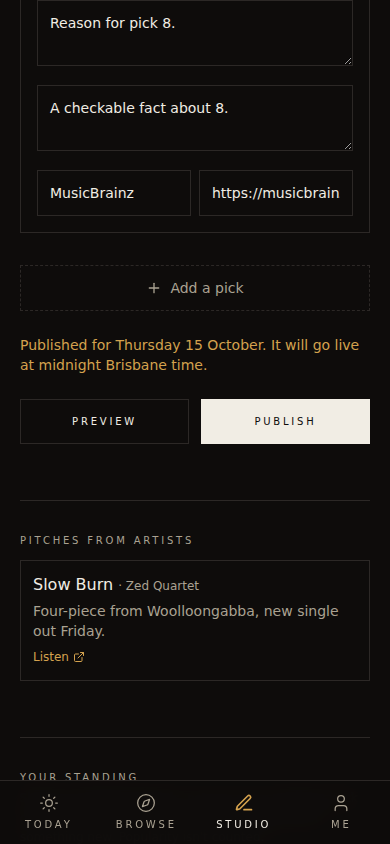
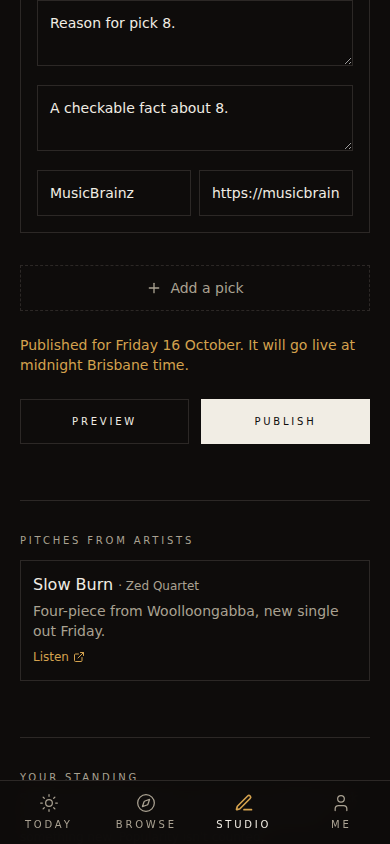
Two-evidence check for new artists; allow 12 picks in DB; governance and evidence

Changed region(s): [[0.0615, 0.4005, 0.9231, 0.4621]]

diff --git a/prototype/src/pages/Studio.jsx b/prototype/src/pages/Studio.jsx
@@ -6,7 +6,7 @@ import { listEditions, saveEdition, listPitches, addGigTip, getCuratorStats, sav
 import { CITIES } from "@/lib/cities";
 import { tierFor, discoveryRate, TIERS, MIN_RESPONSES_TO_SHOW } from "@/lib/standing";
 import { cityToday, addDays, formatLong, formatShort } from "@/lib/time";
-import { validateEdition, emptyItem, MAX_ITEMS, MAX_DAYS_AHEAD } from "@/lib/validate";
+import { validateEdition, emptyItem, emptyEvidence, ARTIST_PAGE_TYPES, MAX_ITEMS, MAX_DAYS_AHEAD } from "@/lib/validate";
 import { useFolio } from "@/lib/folio-store";
 import EditionView from "@/components/folio/EditionView";
 
@@ -37,6 +37,7 @@ export default function Studio() {
   const dateOptions = Array.from({ length: MAX_DAYS_AHEAD + 1 }, (_, i) => addDays(today, i));
 
   const setItem = (i, patch) => setEd((x) => ({ ...x, items: x.items.map((it, n) => (n === i ? { ...it, ...patch } : it)) }));
+  const setEv = (i, patch) => setEd((x) => ({ ...x, items: x.items.map((it, n) => (n === i ? { ...it, evidence: { ...emptyEvidence(), ...it.evidence, ...patch } } : it)) }));
   const setLiner = (i, patch) => setEd((x) => ({ ...x, items: x.items.map((it, n) => (n === i ? { ...it, linerNote: { ...it.linerNote, ...patch } } : it)) }));
 
   const publish = async () => {
@@ -105,9 +106,26 @@ export default function Studio() {
                   <option value="other">Outside {pubCity.country}</option>
                 </select>
                 {it.stage === "emerging" && (
-                  <label className="col-span-2 flex items-center gap-2 text-xs text-folio-cream-dim">
-                    <input type="checkbox" checked={!!it.knowsArtist} onChange={(e) => setItem(i, { knowsArtist: e.target.checked })} /> I know this artist personally (shown to readers)
-                  </label>
+                  <div className="col-span-2 space-y-2 border border-folio-saffron/40 bg-folio-saffron/5 p-3" data-testid={`evidence-${i}`}>
+                    <p className="folio-eyebrow text-folio-saffron">Two sources for a new artist</p>
+                    <div className="grid grid-cols-3 gap-2">
+                      <select value={(it.evidence || {}).artistType || "soundcloud"} onChange={(e) => setEv(i, { artistType: e.target.value })} aria-label={`Pick ${i + 1} artist page type`} className={field + " bg-folio-ink"}>
+                        {ARTIST_PAGE_TYPES.map((t) => <option key={t.id} value={t.id}>{t.label}</option>)}
+                      </select>
+                      <input value={(it.evidence || {}).artistUrl || ""} onChange={(e) => setEv(i, { artistUrl: e.target.value })} placeholder="1. Artist's own page link" aria-label={`Pick ${i + 1} artist page link`} className={field + " col-span-2"} />
+                    </div>
+                    <div className="grid grid-cols-3 gap-2">
+                      <input value={(it.evidence || {}).thirdLabel || ""} onChange={(e) => setEv(i, { thirdLabel: e.target.value })} placeholder="2. Independent source name" aria-label={`Pick ${i + 1} independent source name`} className={field} />
+                      <input value={(it.evidence || {}).thirdUrl || ""} onChange={(e) => setEv(i, { thirdUrl: e.target.value })} placeholder="Radio, venue, press or QMusic link" aria-label={`Pick ${i + 1} independent source link`} className={field + " col-span-2"} />
+                    </div>
+                    <input value={(it.evidence || {}).localNote || ""} onChange={(e) => setEv(i, { localNote: e.target.value })} maxLength={160} placeholder={`How do you know they're based in ${pubCity.name}?`} aria-label={`Pick ${i + 1} local note`} className={field} />
+                    <label className="flex items-start gap-2 text-xs text-folio-cream-dim">
+                      <input type="checkbox" className="mt-0.5" checked={!!(it.evidence || {}).attested} onChange={(e) => setEv(i, { attested: e.target.checked })} aria-label={`Pick ${i + 1} attestation`} /> I confirm this is human-made, local and new. I am accountable for this pick.
+                    </label>
+                    <label className="flex items-center gap-2 text-xs text-folio-cream-dim">
+                      <input type="checkbox" checked={!!it.knowsArtist} onChange={(e) => setItem(i, { knowsArtist: e.target.checked })} /> I know this artist personally (shown to readers)
+                    </label>
+                  </div>
                 )}
               </div>
             )}

diff --git a/prototype/src/lib/validate.js b/prototype/src/lib/validate.js
@@ -4,10 +4,33 @@ export const MIN_ITEMS = 8;
 export const MAX_ITEMS = 12;
 export const MAX_DAYS_AHEAD = 14;
 
+export const emptyEvidence = () => ({
+  artistType: "soundcloud", artistUrl: "",          // artist-owned page (their own profile)
+  thirdLabel: "", thirdUrl: "",                    // independent source (radio, venue, press, QMusic...)
+  localNote: "",                                   // how the curator knows they are local
+  attested: false,                                 // curator signs: human-made, local and new
+});
+
+export const ARTIST_PAGE_TYPES = [
+  { id: "soundcloud", label: "SoundCloud", hosts: ["soundcloud.com", "on.soundcloud.com"] },
+  { id: "bandcamp", label: "Bandcamp", hosts: ["bandcamp.com"] },
+  { id: "other", label: "Other artist-owned page", hosts: null },
+];
+
+const hostOf = (s) => { try { return new URL(s).hostname.replace(/^www\./, "").toLowerCase(); } catch { return ""; } };
+/** true when the URL is on the type's domain (or a subdomain, e.g. name.bandcamp.com). "other" accepts any host. */
+export function artistUrlMatchesType(type, url) {
+  const t = ARTIST_PAGE_TYPES.find((x) => x.id === type);
+  if (!t || !t.hosts) return !!hostOf(url);
+  const h = hostOf(url);
+  return t.hosts.some((d) => h === d || h.endsWith("." + d));
+}
+
 export const emptyItem = () => ({
   id: "i-" + Math.random().toString(36).slice(2, 9),
   kind: "track", title: "", artist: "", year: "", why: "",
   stage: "established", origin: "local", knowsArtist: false,
+  evidence: emptyEvidence(),
   linerNote: { text: "", sourceLabel: "", sourceUrl: "" },
 });
 
@@ -67,6 +90,16 @@ export function validateEdition(ed, { today, takenDates = [] }) {
     if (it.year && !/^\d{4}$/.test(String(it.year))) errs.push(`${p}: year should be four digits.`);
     if (isMusic(it) && it.origin === "other") errs.push(`${p}: Folio is scoped to Australian artists for now. Mark where they are from, or pick someone from here.`);
     if (it.stage === "emerging" && !isMusic(it)) errs.push(`${p}: only a track, album or artist can be marked new and upcoming.`);
+    if (it.stage === "emerging" && isMusic(it)) {
+      const ev = it.evidence || {};
+      if (!isHttpUrl(ev.artistUrl || "")) errs.push(`${p}: add the artist's own page (SoundCloud, Bandcamp or other) as a link.`);
+      else if (!artistUrlMatchesType(ev.artistType, ev.artistUrl)) errs.push(`${p}: that link is not on ${ARTIST_PAGE_TYPES.find((x) => x.id === ev.artistType)?.label || "the chosen site"}. Change the page type or the link.`);
+      if (!isHttpUrl(ev.thirdUrl || "") || !(ev.thirdLabel || "").trim()) errs.push(`${p}: add an independent source (radio, venue, press or QMusic) with a name and link.`);
+      else if (hostOf(ev.thirdUrl) === hostOf(ev.artistUrl)) errs.push(`${p}: the independent source must be on a different site from the artist's own page.`);
+      if ((ev.localNote || "").trim().length < 20) errs.push(`${p}: say how you know the artist is local (profile location, a gig, a venue).`);
+      if (it.origin !== "local") errs.push(`${p}: a new and upcoming pick must be based in the city.`);
+      if (!ev.attested) errs.push(`${p}: tick the box to confirm this is human-made, local and new.`);
+    }
     const ln = it.linerNote || {};
     if ((ln.text || "").trim().length < 20) errs.push(`${p}: the liner note needs a real fact.`);
     if (!isHttpUrl(ln.sourceUrl || "")) errs.push(`${p}: the liner note needs a source link (http or https).`);

diff --git a/prototype/src/components/folio/ItemCard.jsx b/prototype/src/components/folio/ItemCard.jsx
@@ -35,6 +35,13 @@ export default function ItemCard({ item, index, editionDate }) {
               {item.stage === "emerging" && item.knowsArtist && <span className="folio-eyebrow px-1.5 py-0.5 border border-border text-folio-cream-dim">Curator knows them</span>}
             </p>
           )}
+          {item.stage === "emerging" && item.evidence?.localNote && (
+            <p className="mt-2 text-xs text-folio-cream-dim" data-testid="item-evidence">
+              <span className="folio-eyebrow text-folio-saffron mr-1.5">Local</span>{item.evidence.localNote}{" "}
+              {item.evidence.artistUrl && <a href={item.evidence.artistUrl} target="_blank" rel="noopener noreferrer" className="underline underline-offset-2 hover:text-folio-cream">Artist's page</a>}
+              {item.evidence.thirdUrl && <> · <a href={item.evidence.thirdUrl} target="_blank" rel="noopener noreferrer" className="underline underline-offset-2 hover:text-folio-cream">{item.evidence.thirdLabel || "Second source"}</a></>}
+            </p>
+          )}
         </div>
         <button
           onClick={() => toggleSaved({ id: item.id, title: item.title, artist: item.artist, editionDate })}

diff --git a/submission/07_Engineering/e2e/flows.py b/submission/07_Engineering/e2e/flows.py
@@ -82,6 +82,15 @@ with sync_playwright() as pw:
         p.fill(f'[aria-label="Pick {i} source name"]',"MusicBrainz"); p.fill(f'[aria-label="Pick {i} source link"]',"https://musicbrainz.org/")
     for i in (1,2,3):
         p.select_option(f'[aria-label="Pick {i} stage"]',"emerging")
+    p.get_by_test_id("publish").click(); p.wait_for_timeout(400)
+    check(F,"New artists without two sources and attestation are blocked", "own page" in p.get_by_test_id("studio-errors").inner_text() and "human-made" in p.get_by_test_id("studio-errors").inner_text())
+    p.select_option('[aria-label="Pick 1 artist page type"]',"bandcamp"); p.fill('[aria-label="Pick 1 artist page link"]',"https://soundcloud.com/x"); p.get_by_test_id("publish").click(); p.wait_for_timeout(300)
+    check(F,"Artist page link must match the chosen site", "not on Bandcamp" in p.get_by_test_id("studio-errors").inner_text())
+    for i in (1,2,3):
+        p.select_option(f'[aria-label="Pick {i} artist page type"]',"soundcloud"); p.fill(f'[aria-label="Pick {i} artist page link"]',f"https://soundcloud.com/artist{i}")
+        p.fill(f'[aria-label="Pick {i} independent source name"]',"4ZZZ"); p.fill(f'[aria-label="Pick {i} independent source link"]',f"https://4zzzfm.org.au/artist{i}")
+        p.fill(f'[aria-label="Pick {i} local note"]',"Profile says Brisbane; played The Zoo in 2026."); p.check(f'[aria-label="Pick {i} attestation"]')
+    p.get_by_test_id("evidence-0").scroll_into_view_if_needed(); shot(p,"F4-3b-two-sources")
     p.get_by_test_id("publish").click(); p.wait_for_timeout(600); shot(p,"F4-4-published")
     check(F,"Valid 8-pick Edition with 3 new artists publishes", "Published" in (p.get_by_test_id("studio-status").inner_text() if p.get_by_test_id("studio-status").count() else ""), p.inner_text("body")[-400:])
     signout(p)

diff --git a/docs/CURATOR_GOVERNANCE.md b/docs/CURATOR_GOVERNANCE.md
@@ -26,6 +26,18 @@ Folio's job is both to help newcomers get to know the established names and to s
 - The mix is a hypothesis about what a newcomer needs. Test it (Evaluation Kit Q8) and change it if the evidence says so.
 - Founding (seed) Editions are history lessons by the team and are exempt.
 
+## Verifying new and local artists: two sources and a signature (implemented 15 Oct, `validate.js`, Studio)
+A pick marked "new and upcoming" must carry, before an Edition can publish:
+1. **The artist's own page** (SoundCloud, Bandcamp or another artist-owned page). The Studio checks that the link is on the site the curator chose; look-alike domains fail.
+2. **An independent source** (radio, venue, press or QMusic) with a name and link, on a different site from the artist's page.
+3. **A local note**: how the curator knows the artist is based in the city (profile location, a gig, a venue).
+4. **The curator's attestation**: "I confirm this is human-made, local and new. I am accountable for this pick."
+Readers see the local note and both links on the pick.
+
+**Limits, stated plainly.** Folio does not connect to SoundCloud, Bandcamp or any streaming service and shows no stream counts: we have not verified API access or terms, and a popularity number would reward the already-popular, against the no-ranking rule. Folio cannot detect AI-generated music; the check is human, and accountability sits with the named curator, not an algorithm. A curator can still sign falsely. The mitigations are visibility (the pick shows its sources to every reader), the discovery check, and removal by the team. Whether two sources is the right bar is a hypothesis to test in evaluation.
+
+**Candidate independent sources (to verify before we name them in the app):** triple j Unearthed profiles, QMusic, 4ZZZ, APRA AMCOS, venue listings. None has been verified by the team yet.
+
 ## Why not likes
 Likes reward what is already popular and push everyone toward the same taste (Anwar's homogenisation concern in the portfolio readings). Asking "did this show you something new?" rewards the opposite: finding what the reader did not know.
 

diff --git a/submission/02_Product/CURATOR_GOVERNANCE.md b/submission/02_Product/CURATOR_GOVERNANCE.md
@@ -26,6 +26,18 @@ Folio's job is both to help newcomers get to know the established names and to s
 - The mix is a hypothesis about what a newcomer needs. Test it (Evaluation Kit Q8) and change it if the evidence says so.
 - Founding (seed) Editions are history lessons by the team and are exempt.
 
+## Verifying new and local artists: two sources and a signature (implemented 15 Oct, `validate.js`, Studio)
+A pick marked "new and upcoming" must carry, before an Edition can publish:
+1. **The artist's own page** (SoundCloud, Bandcamp or another artist-owned page). The Studio checks that the link is on the site the curator chose; look-alike domains fail.
+2. **An independent source** (radio, venue, press or QMusic) with a name and link, on a different site from the artist's page.
+3. **A local note**: how the curator knows the artist is based in the city (profile location, a gig, a venue).
+4. **The curator's attestation**: "I confirm this is human-made, local and new. I am accountable for this pick."
+Readers see the local note and both links on the pick.
+
+**Limits, stated plainly.** Folio does not connect to SoundCloud, Bandcamp or any streaming service and shows no stream counts: we have not verified API access or terms, and a popularity number would reward the already-popular, against the no-ranking rule. Folio cannot detect AI-generated music; the check is human, and accountability sits with the named curator, not an algorithm. A curator can still sign falsely. The mitigations are visibility (the pick shows its sources to every reader), the discovery check, and removal by the team. Whether two sources is the right bar is a hypothesis to test in evaluation.
+
+**Candidate independent sources (to verify before we name them in the app):** triple j Unearthed profiles, QMusic, 4ZZZ, APRA AMCOS, venue listings. None has been verified by the team yet.
+
 ## Why not likes
 Likes reward what is already popular and push everyone toward the same taste (Anwar's homogenisation concern in the portfolio readings). Asking "did this show you something new?" rewards the opposite: finding what the reader did not know.
 

diff --git a/submission/04_Design_Process/DECISION_LOG.md b/submission/04_Design_Process/DECISION_LOG.md
@@ -19,6 +19,7 @@ One line per decision that changed the design: what, why, evidence, and what it 
 | 13 Oct 2026 | Roles and landing: member to Today, curator to Studio, team to Team screen; admin only via database flag | Each role sees what it needs; no self-promotion | Admin.jsx; migration 002 | More to test |
 | 13 Oct 2026 | Delete my account allowed except for curators and the team | Respect for users without breaking the archive | migration 002 | Manual removal for curators |
 | 13 Oct 2026 | Base44 kept as a throw-away look-and-feel prototype; the repo build is the proof of concept | Brief: do not let the prototype become the product | Base44 prototype link | Two codebases; only the repo build is evaluated |
+| 15 Oct | New and upcoming picks need two independent sources, a local note and the curator's attestation (no SoundCloud API, no stream counts) | Protect emerging local artists from non-local or AI-made acts replacing them; keep accountability with a named human; avoid unverified APIs and popularity metrics | Creative Australia *Listening In* (2025): algorithms may make emerging Australian artists harder to find; unit tests and UI flow F4 | Curators can still sign falsely; cannot detect AI music; extra effort per new-artist pick [REVIEW: check with evaluation] |
 
 ## Decisions still to make
 Ethics framework to apply; how markers access Studio and Team screens; tradeshow day.

diff --git a/docs/SUPABASE_SETUP.md b/docs/SUPABASE_SETUP.md
@@ -40,7 +40,7 @@ It signs up throwaway guests and checks, against the live project: sign-up works
 - The smoke test leaves a published Edition for today, a comment and `smoke-*` guest users. Delete them before publishing a real Edition (Table Editor: editions, comments; Authentication: Users).
 
 ## Round 2: admin, curator approval and delete account (13 Oct)
-Run once in Supabase > SQL Editor: the contents of `prototype/supabase/migrations/002_roles_admin.sql` (safe to run again).
+Run once each in Supabase > SQL Editor, in order (both safe to run again): `prototype/supabase/migrations/002_roles_admin.sql`, then `003_editions_up_to_12.sql` (lets Editions hold up to 12 picks; without it publishing 8 or more picks fails on the live database).
 Then make yourself a Folio team member (use your own uuid from Authentication > Users):
 ```sql
 update public.profiles set is_admin = true where id = '<your uuid>';

diff --git a/submission/07_Engineering/SUPABASE_SETUP.md b/submission/07_Engineering/SUPABASE_SETUP.md
@@ -40,7 +40,7 @@ It signs up throwaway guests and checks, against the live project: sign-up works
 - The smoke test leaves a published Edition for today, a comment and `smoke-*` guest users. Delete them before publishing a real Edition (Table Editor: editions, comments; Authentication: Users).
 
 ## Round 2: admin, curator approval and delete account (13 Oct)
-Run once in Supabase > SQL Editor: the contents of `prototype/supabase/migrations/002_roles_admin.sql` (safe to run again).
+Run once each in Supabase > SQL Editor, in order (both safe to run again): `prototype/supabase/migrations/002_roles_admin.sql`, then `003_editions_up_to_12.sql` (lets Editions hold up to 12 picks; without it publishing 8 or more picks fails on the live database).
 Then make yourself a Folio team member (use your own uuid from Authentication > Users):
 ```sql
 update public.profiles set is_admin = true where id = '<your uuid>';
